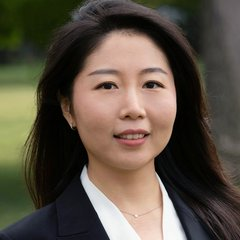
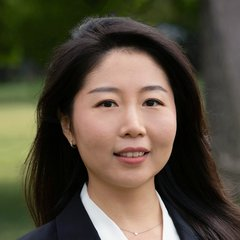
Shorten Songrun's affiliation, lower Lina's photo, cache-bust updated photos

diff --git a/index.html b/index.html
@@ -530,7 +530,7 @@
 <template id="person-songrun">
   <div class="person-card">
     <img class="person-photo" src="assets/coauthors/songrun-he.jpg" alt="Songrun He" width="96" height="96" loading="lazy">
-    <p class="person-bio">Songrun He is an Assistant Professor of Finance at CUHK Business School, The Chinese University of Hong Kong.</p>
+    <p class="person-bio">Songrun He is an Assistant Professor of Finance at CUHK Business School.</p>
   </div>
   <div class="panel-actions">
       <a class="btn primary" href="https://www.songrunhe.com/" target="_blank" rel="noopener">Visit Songrun&rsquo;s website</a>
@@ -547,7 +547,7 @@
 </template>
 <template id="person-asaf">
   <div class="person-card">
-    <img class="person-photo" src="assets/coauthors/asaf-manela.jpg" alt="Asaf Manela" width="96" height="96" loading="lazy">
+    <img class="person-photo" src="assets/coauthors/asaf-manela.jpg?v=2" alt="Asaf Manela" width="96" height="96" loading="lazy">
     <p class="person-bio">Asaf Manela is a Professor of Finance at Olin Business School, Washington University in St. Louis.</p>
   </div>
   <div class="panel-actions">
@@ -556,7 +556,7 @@
 </template>
 <template id="person-lina">
   <div class="person-card">
-    <img class="person-photo" src="assets/coauthors/lina-han.jpg" alt="Lina Han" width="96" height="96" loading="lazy">
+    <img class="person-photo" src="assets/coauthors/lina-han.jpg?v=3" alt="Lina Han" width="96" height="96" loading="lazy">
     <p class="person-bio">Lina Han is an Assistant Professor of Finance at the University of Massachusetts Amherst.</p>
   </div>
   <div class="panel-actions">
